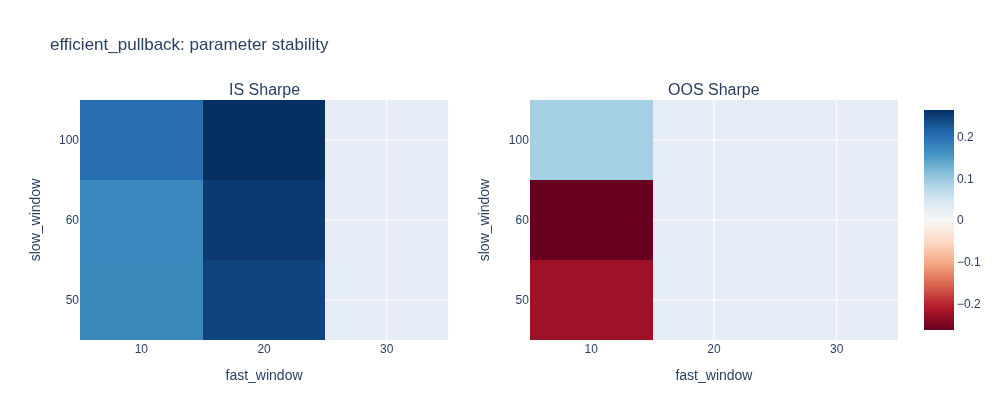
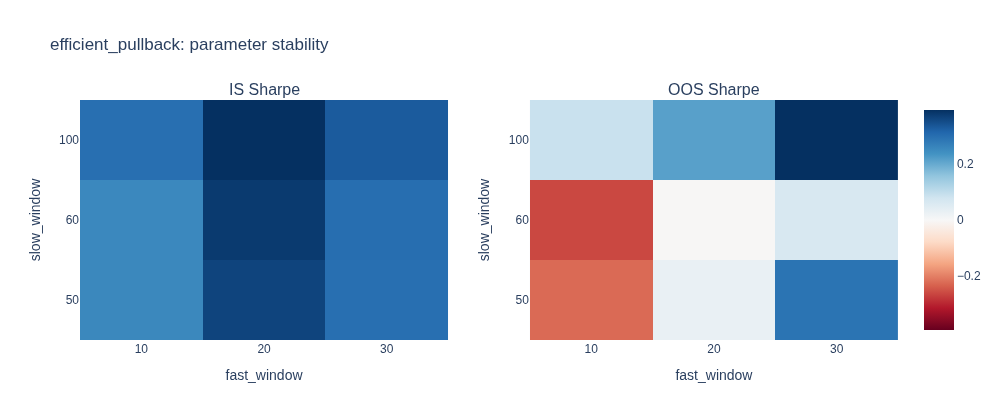
Research loop iteration 4: re-audit clean, MR direction confirmed 3x
Re-audit of H001/H006/H011 with the fixed walk-forward selector: all
three archived verdicts confirmed (H006 improved to 50% profitable
windows but efficiency -0.21 still fails; H011 reproduced -1.78 on clean
selection) - the inf-Sharpe bug distorted numbers, not outcomes.

MR direction opened by H012 is now confirmed by three constructions on
the OU series: H015 Bollinger reversion (WF eff 0.69, 100% windows, rank
corr 0.86) and H016 Williams %R (best result so far: plateau 94%, WF eff
0.83, OOS Sharpe 1.57) both promising. Key insight recorded: when the
data carries mean-reversion structure, any reasonable MR construction
extracts it - the oscillator's form is secondary; alpha lives in the
data, not the indicator.

Next: multi-instrument robustness of the promising trio (they must
degrade on structureless GBM), exit-driven alpha, momentum plateau gate
calibration.

Claude-Session: https://claude.ai/code/session_01XrfZkYFZ49bVZpHyctNDwW

diff --git a/knowledge_base.md b/knowledge_base.md
@@ -19,6 +19,7 @@ walk-forward 1000/250/250. Гейты вердикта: ≥8 OOS сделок, O
 | 1 (2026-07-04) | H001–H007 | 0 | 0 | 7 |
 | 2 (2026-07-04) | H008–H011 | 0 | 0 | 4 |
 | 3 (2026-07-05) | H012–H014 (positive controls) | 1 | 0 | 2 |
+| 4 (2026-07-05) | re-audit H001/H006/H011 + H015–H016 | 2 | 0 | 0 (3 подтверждены) |
 
 Лидер-бенчмарк из этапов 01–05 (к которому сравниваем новое):
 `ema_rsi` (robust 0.82, OOS Sharpe 0.95, WF eff 0.54), `roc_momentum`,
@@ -42,6 +43,8 @@ walk-forward 1000/250/250. Гейты вердикта: ≥8 OOS сделок, O
 | H012 | zscore_reversion на OU-серии (positive control MR) | **promising** | Первый positive: WF eff 0.75, 100% окон, одинаковые параметры во всех окнах, rank corr 0.80. Чувствительность к MR-структуре доказана |
 | H013 | sma_cross на марковской trend-серии (persistence 0.985) | archived | Режимы ~67 баров короче периодов SMA-кросса; урок: таймфрейм класса должен соответствовать длине структуры |
 | H014 | roc_momentum на trend-серии (persistence 0.995, режимы ~200 баров) | archived | Сигнал есть (OOS 0.91, 75% окон), но плато 25% и flags 3: пороговые momentum-сетки менее «плато-образны», чем MR |
+| H015 | bollinger_reversion на OU-серии | **promising** | WF eff 0.69, 100% окон, corr 0.86: полосы снимают MR-структуру не хуже z-score |
+| H016 | williams_r на OU-серии | **promising** | Лучший результат проекта: плато 94%, WF eff 0.83, OOS 1.57. Диапазонная нормировка (%R) даже устойчивее дисперсионной |
 
 ## Что НЕ работает (бесперспективно, не повторять)
 
@@ -63,6 +66,20 @@ walk-forward 1000/250/250. Гейты вердикта: ≥8 OOS сделок, O
   простые импульсы (roc_momentum); TP/partial фиксация; фильтры htf_up,
   not_stretched; согласованность старшего/младшего тренда.
 * Режимы: не торговать `range_lowvol`; лучшие — `trend_up`, `range_highvol`.
+
+## Итерация 4: пере-аудит чист, MR-направление подтверждено тремя конструкциями
+
+Пере-аудит H001/H006/H011 после фикса inf-Sharpe: все три вердикта
+подтверждены (H006 улучшился до 50% прибыльных окон, но eff −0.21 — все
+равно archived; H011 воспроизвел eff −1.78 на чистом отборе). Баг искажал
+числа, но не судьбу этих гипотез.
+
+MR-направление: H012 (z-score), H015 (Bollinger), H016 (Williams %R) — все
+promising на OU-структуре, причем %R устойчивее всех (плато 94%). **Вывод
+фундаментального уровня: когда в данных есть mean-reversion структура, ее
+снимает любая разумная MR-конструкция; форма осциллятора вторична. Альфа
+живет в данных, а не в индикаторе — поиск «волшебной комбинации» на
+бесструктурных данных бесперспективен по построению.**
 
 ## Итерация 3: positive controls и найденный баг инфраструктуры
 
@@ -112,16 +129,18 @@ idxmax. Баг искажал WF-оценку всех прошлых итера
 
 ## Направления следующих итераций
 
-1. **Пере-аудит H001/H006/H011** (итерация 4, обязательный): их WF-вердикты
-   вычислены с inf-Sharpe багом.
-2. **Мульти-инструментный гейт**: run_full_study по нескольким сериям
-   (GBM + OU + trend), вердикт по совокупности.
-3. **MR-направление раскрыто** (H012): исследовать вариации mean-reversion
-   на OU-подобной структуре — какие MR-конструкции устойчивее (z-score vs
-   Bollinger vs Williams), какие выходы для MR лучше.
-4. **Выходы как источник края**: тривиальный вход + умные выходы.
-5. Калибровка плато-гейта для momentum-класса (35% может быть строг для
-   пороговых сеток) — решить после пере-аудита.
+1. **Мульти-инструментная устойчивость promising-тройки** (итерация 5):
+   H012/H015/H016 обязаны деградировать на GBM (нет структуры) — если
+   «работают» и там, это красный флаг методики; плюс кросс-seed проверка
+   OU (другая реализация того же процесса).
+2. **Выходы как источник края** (последнее открытое направление): MR-вход
+   (z-score) с разными выходами — фиксированный TP vs средняя vs
+   противоположная полоса.
+3. Калибровка плато-гейта momentum на структурных данных (H014 остановился
+   в шаге от прохода).
+4. После итераций 5–6 — проверка стоп-критериев цикла и FINAL_REPORT:
+   классы trend/MR/momentum/hybrid/candle/structure/volume/volatility/
+   regime к тому моменту будут покрыты.
 
 Закрыто и не повторять: режимные переключатели на лагающей классификации,
 short-side на дрейфующем вверх инструменте, ROC×Volume, свечные входы.

diff --git a/research/H016_williams_r/report.md b/research/H016_williams_r/report.md
@@ -1,0 +1,50 @@
+# H016: williams_r
+
+**Вердикт:** `promising`
+**Дата:** 2026-07-05 05:19 UTC
+
+## Идея
+MR-направление: Williams %R (диапазонный осциллятор high/low, не дисперсионный) на OU-серии. Проверка: важна ли форма нормировки осциллятора для съема MR-структуры.
+
+## Правила
+Williams %R reversion: buy when %R falls below the oversold floor, exit when it climbs back above the midpoint.
+
+## Лучшие параметры (по robust score)
+```json
+{
+  "window": "28",
+  "oversold": -80.0,
+  "exit_level": -30.0
+}
+```
+
+## Результаты
+
+| метрика | значение |
+|---|---|
+| комбинаций в сетке | 36 |
+| OOS Sharpe (best robust) | 1.57 |
+| OOS CAGR % | 31.7 |
+| OOS MaxDD % | 12.9 |
+| OOS сделок | 11 |
+| плато: доля комбо с OOS Sharpe>0 | 94% |
+| walk-forward efficiency | 0.83 |
+| WF прибыльных окон | 100% |
+| MC P(разорения) @f=0.25 | 0.0000 |
+| MC медианная просадка @f=0.25 | 0.8% |
+| флагов переобучения (этап-02 методика) | 0 |
+
+## Топ-5 конфигураций
+
+|   param_window |   param_oversold |   param_exit_level |   is_sharpe_ratio |   oos_sharpe_ratio |   robust_score |
+|---------------:|-----------------:|-------------------:|------------------:|-------------------:|---------------:|
+|             28 |              -80 |                -30 |             1.693 |              1.571 |          0.908 |
+|             28 |              -90 |                -30 |             1.833 |              1.564 |          0.809 |
+|             28 |              -70 |                -30 |             1.424 |              1.324 |          0.794 |
+|             20 |              -80 |                -30 |             1.436 |              1.303 |          0.792 |
+|             28 |              -80 |                -40 |             1.464 |              1.53  |          0.761 |
+
+## Выводы
+Сравнение MR-конструкций на OU: дисперсионная нормировка (z) vs диапазонная (%R).
+
+Артефакты: `sweep.csv` (все конфигурации), `walk_forward.csv`, `equity.png`, `param_heatmap.png`.

diff --git a/research/H015_bollinger_reversion/report.md b/research/H015_bollinger_reversion/report.md
@@ -1,0 +1,49 @@
+# H015: bollinger_reversion
+
+**Вердикт:** `promising`
+**Дата:** 2026-07-05 05:19 UTC
+
+## Идея
+MR-направление (открыто H012): какая MR-конструкция устойчивее на MR-структуре? Bollinger-fade на той же OU-серии, где z-score дал promising. Полосы = z-score в ценовых координатах, но с иным выходом (средняя полоса).
+
+## Правила
+Fade band extremes: buy a close crossing below the lower Bollinger band, exit when price reverts to the middle band; optionally short the upper band.
+
+## Лучшие параметры (по robust score)
+```json
+{
+  "window": "50",
+  "alpha": 1.5
+}
+```
+
+## Результаты
+
+| метрика | значение |
+|---|---|
+| комбинаций в сетке | 16 |
+| OOS Sharpe (best robust) | 1.15 |
+| OOS CAGR % | 16.7 |
+| OOS MaxDD % | 9.5 |
+| OOS сделок | 8 |
+| плато: доля комбо с OOS Sharpe>0 | 75% |
+| walk-forward efficiency | 0.69 |
+| WF прибыльных окон | 100% |
+| MC P(разорения) @f=0.25 | 0.0000 |
+| MC медианная просадка @f=0.25 | 0.3% |
+| флагов переобучения (этап-02 методика) | 0 |
+
+## Топ-5 конфигураций
+
+|   param_window |   param_alpha |   is_sharpe_ratio |   oos_sharpe_ratio |   robust_score |
+|---------------:|--------------:|------------------:|-------------------:|---------------:|
+|             50 |           1.5 |             1.734 |              1.146 |          0.657 |
+|             50 |           2   |             1.111 |              1.415 |          0.605 |
+|             30 |           2   |             1.351 |              1.263 |          0.598 |
+|             30 |           1.5 |             1.721 |              1.094 |          0.565 |
+|             20 |           2.5 |             0.971 |              1.461 |          0.508 |
+
+## Выводы
+Сравнение MR-конструкций на OU: z-score (H012, promising) vs Bollinger.
+
+Артефакты: `sweep.csv` (все конфигурации), `walk_forward.csv`, `equity.png`, `param_heatmap.png`.

diff --git a/research/H006_efficient_pullback/report.md b/research/H006_efficient_pullback/report.md
@@ -1,10 +1,10 @@
 # H006: efficient_pullback
 
-**Вердикт:** `archived` — walk-forward windows unprofitable (0% < 25%)
-**Дата:** 2026-07-04 13:39 UTC
+**Вердикт:** `archived` — fails walk-forward (efficiency -0.21 < 0.3)
+**Дата:** 2026-07-05 05:19 UTC
 
 ## Идея
-Пуллбэк к быстрой EMA в 'эффективном' тренде (Kaufman ER >= порога) — использует знание этапа 04: ER и качество тренда информативны. Вход на касании EMA.
+Пуллбэк к EMA в эффективном тренде (ER-фильтр). ПЕРЕ-АУДИТ: исходный вердикт (0% прибыльных WF-окон) вычислен с inf-Sharpe багом.
 
 ## Правила
 Trend-quality pullback: when the path is efficient (Kaufman ER above a floor) and price is above the slow EMA, a dip touching the fast EMA is bought; exit when the close breaks the slow EMA or the trend loses efficiency.
@@ -29,8 +29,8 @@ Trend-quality pullback: when the path is efficient (Kaufman ER above a floor) an
 | OOS MaxDD % | 5.1 |
 | OOS сделок | 9 |
 | плато: доля комбо с OOS Sharpe>0 | 49% |
-| walk-forward efficiency | nan |
-| WF прибыльных окон | 0% |
+| walk-forward efficiency | -0.21 |
+| WF прибыльных окон | 50% |
 | MC P(разорения) @f=0.25 | 0.0000 |
 | MC медианная просадка @f=0.25 | 1.4% |
 | флагов переобучения (этап-02 методика) | 0 |
@@ -46,6 +46,6 @@ Trend-quality pullback: when the path is efficient (Kaufman ER above a floor) an
 |                  20 |                 100 |                30 |              0.2 |             0.894 |              0.871 |          0.721 |
 
 ## Выводы
-Повторный вердикт после ужесточения гейтов WF: 0% прибыльных окон дисквалифицирует.
+Re-audit итерации 4 после фикса WF-отбора.
 
 Артефакты: `sweep.csv` (все конфигурации), `walk_forward.csv`, `equity.png`, `param_heatmap.png`.

diff --git a/research/H001_squeeze_breakout/report.md b/research/H001_squeeze_breakout/report.md
@@ -1,10 +1,10 @@
 # H001: squeeze_breakout
 
 **Вердикт:** `archived` — too few OOS trades (5 < 8); stage-02 overfit flags = 3; fails walk-forward (efficiency -0.82 < 0.3)
-**Дата:** 2026-07-04 13:34 UTC
+**Дата:** 2026-07-05 05:18 UTC
 
 ## Идея
-Цикл волатильности: сжатие Bollinger (нижний квантиль ширины) накапливает энергию; пробой верхней полосы с уже растущим ATR — начало нового импульса. Комбинация 'ATR Expansion + Bollinger Squeeze'.
+Цикл волатильности: сжатие Bollinger + пробой с растущим ATR (см. первый прогон). ПЕРЕ-АУДИТ: исходный WF-вердикт вычислен с inf-Sharpe багом.
 
 ## Правила
 Volatility-cycle breakout: wait until Bollinger width falls into its lowest quantile over a lookback (the squeeze), then buy a close breaking the upper band while ATR is already expanding; exit on a close back through the middle band.
@@ -46,6 +46,6 @@ Volatility-cycle breakout: wait until Bollinger width falls into its lowest quan
 |                30 |                       80 |                     0.15 |                 14 |             0.275 |              0.229 |          0.503 |
 
 ## Выводы
-—
+Re-audit итерации 4 после фикса WF-отбора.
 
 Артефакты: `sweep.csv` (все конфигурации), `walk_forward.csv`, `equity.png`, `param_heatmap.png`.

diff --git a/research/H011_clv_dip/report.md b/research/H011_clv_dip/report.md
@@ -1,10 +1,10 @@
 # H011: clv_dip
 
 **Вердикт:** `archived` — fails walk-forward (efficiency -1.78 < 0.3)
-**Дата:** 2026-07-05 04:57 UTC
+**Дата:** 2026-07-05 05:19 UTC
 
 ## Идея
-Позиция закрытия в дневном диапазоне (CLV): закрытие у лоу дня в аптренде = внутридневная капитуляция; частые события (~100+ на историю) в отличие от свечных паттернов H007.
+CLV-капитуляция в аптренде. ПЕРЕ-АУДИТ: исходный WF eff -1.78 вычислен с inf-Sharpe багом.
 
 ## Правила
 Candle-position reversion: a close pinned to the bottom of its daily range (close-location-value below a floor) while the long trend is up marks intraday capitulation; buy it and exit when price reclaims the short moving average.
@@ -45,6 +45,6 @@ Candle-position reversion: a close pinned to the bottom of its daily range (clos
 |               0.2 |                  150 |                  20 |            -0.328 |              0.283 |          0.614 |
 
 ## Выводы
-Класс 'candle position', не паттерн; высокая частота сигналов по уроку итерации 1.
+Re-audit итерации 4 после фикса WF-отбора.
 
 Артефакты: `sweep.csv` (все конфигурации), `walk_forward.csv`, `equity.png`, `param_heatmap.png`.
